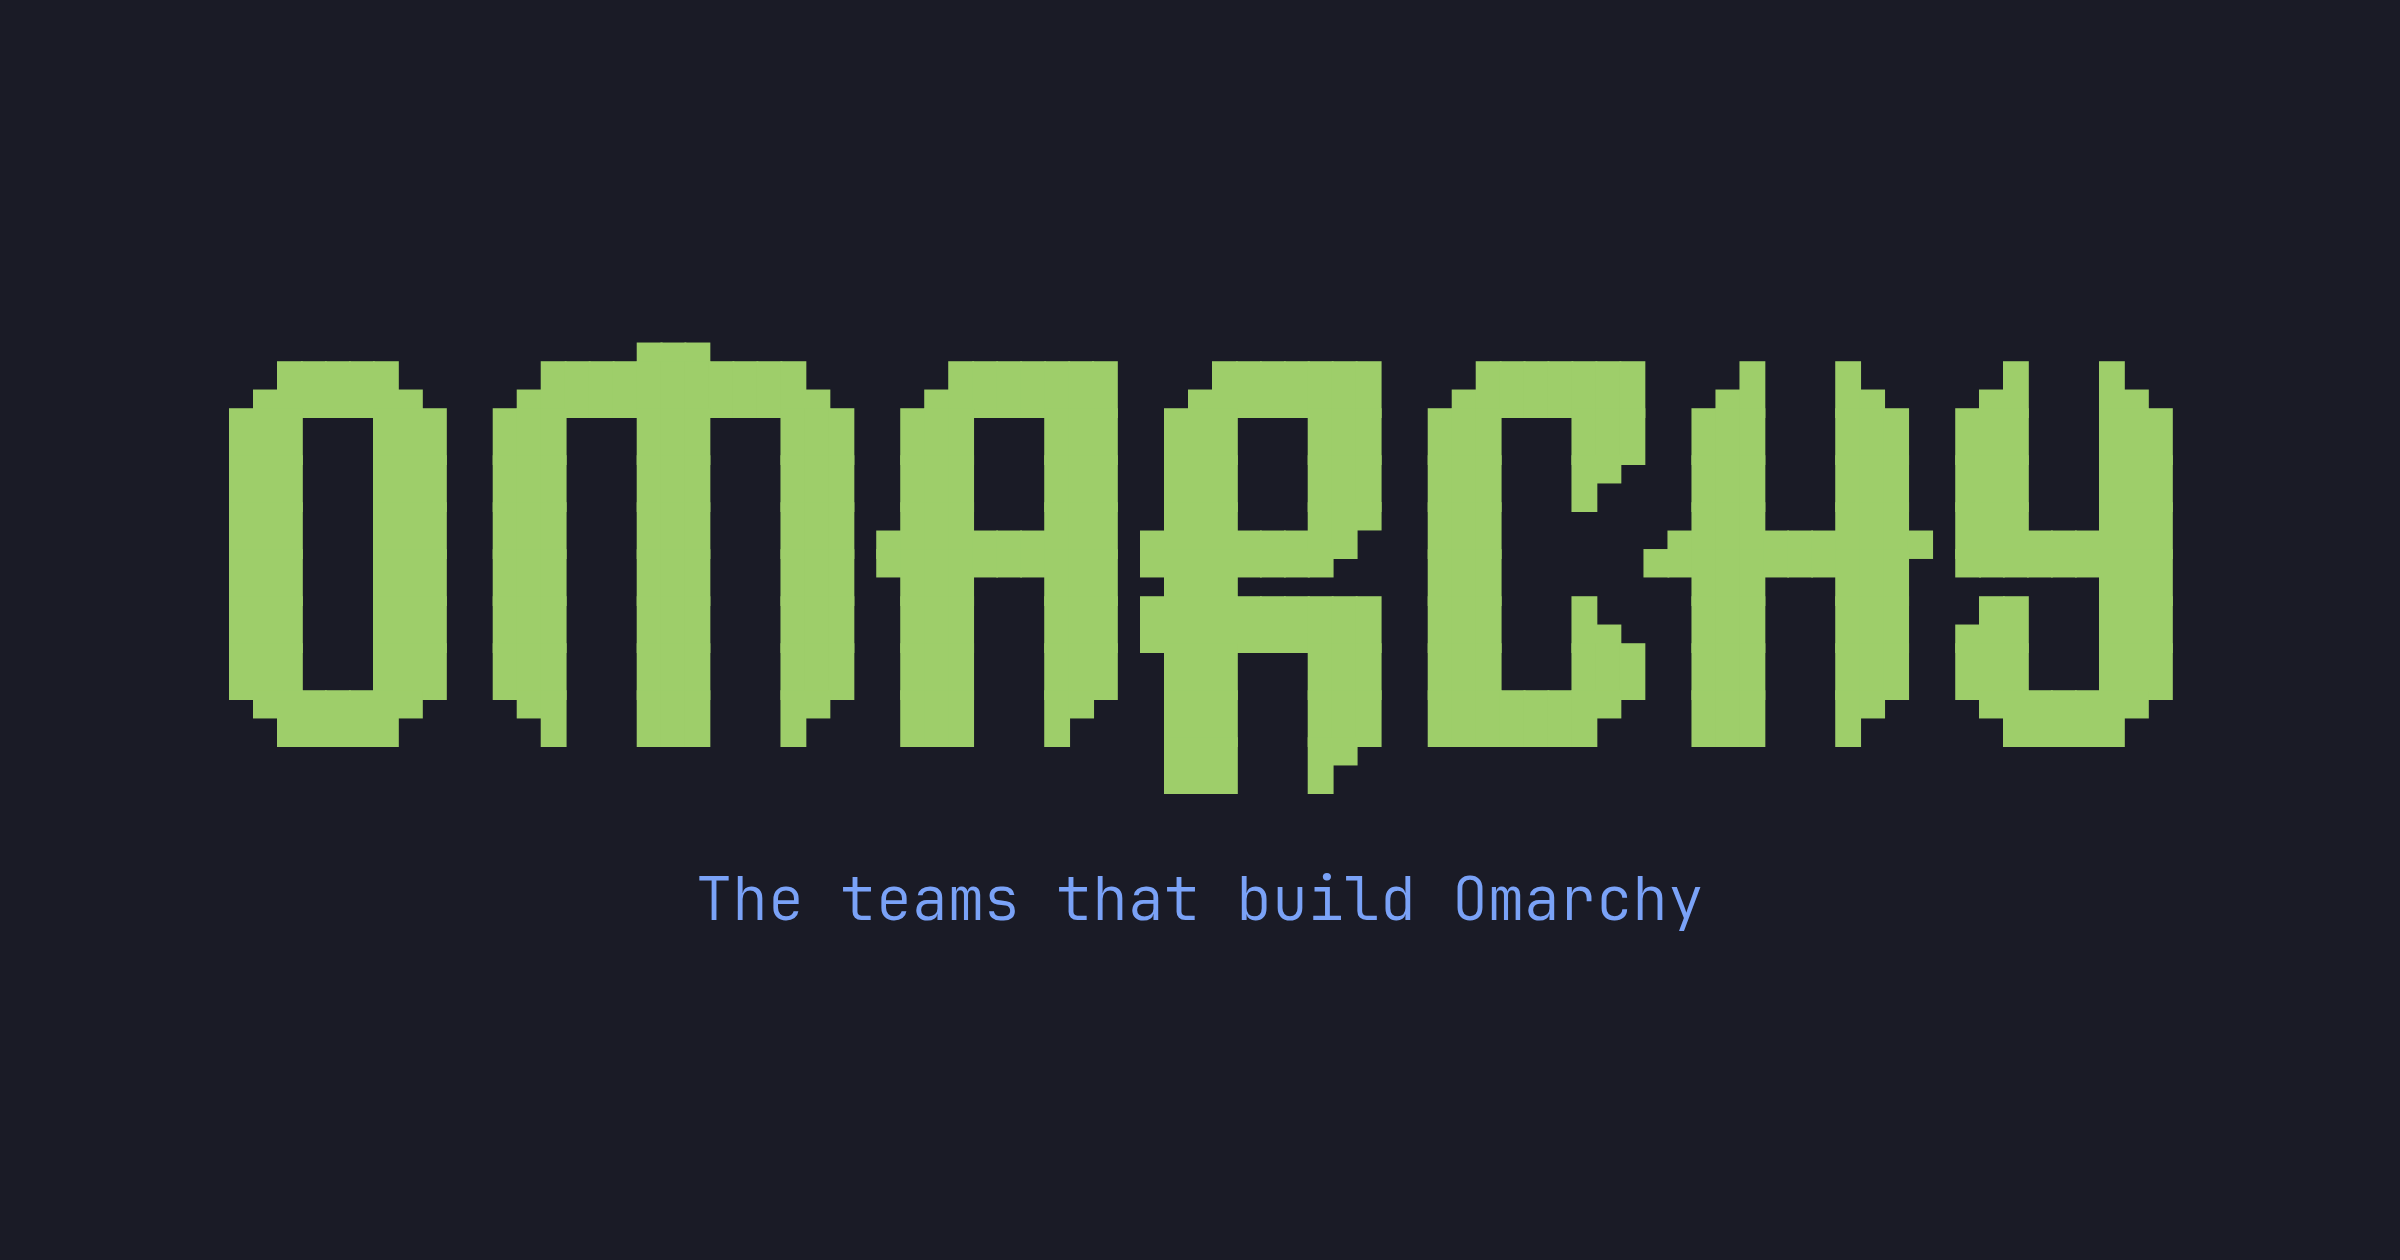
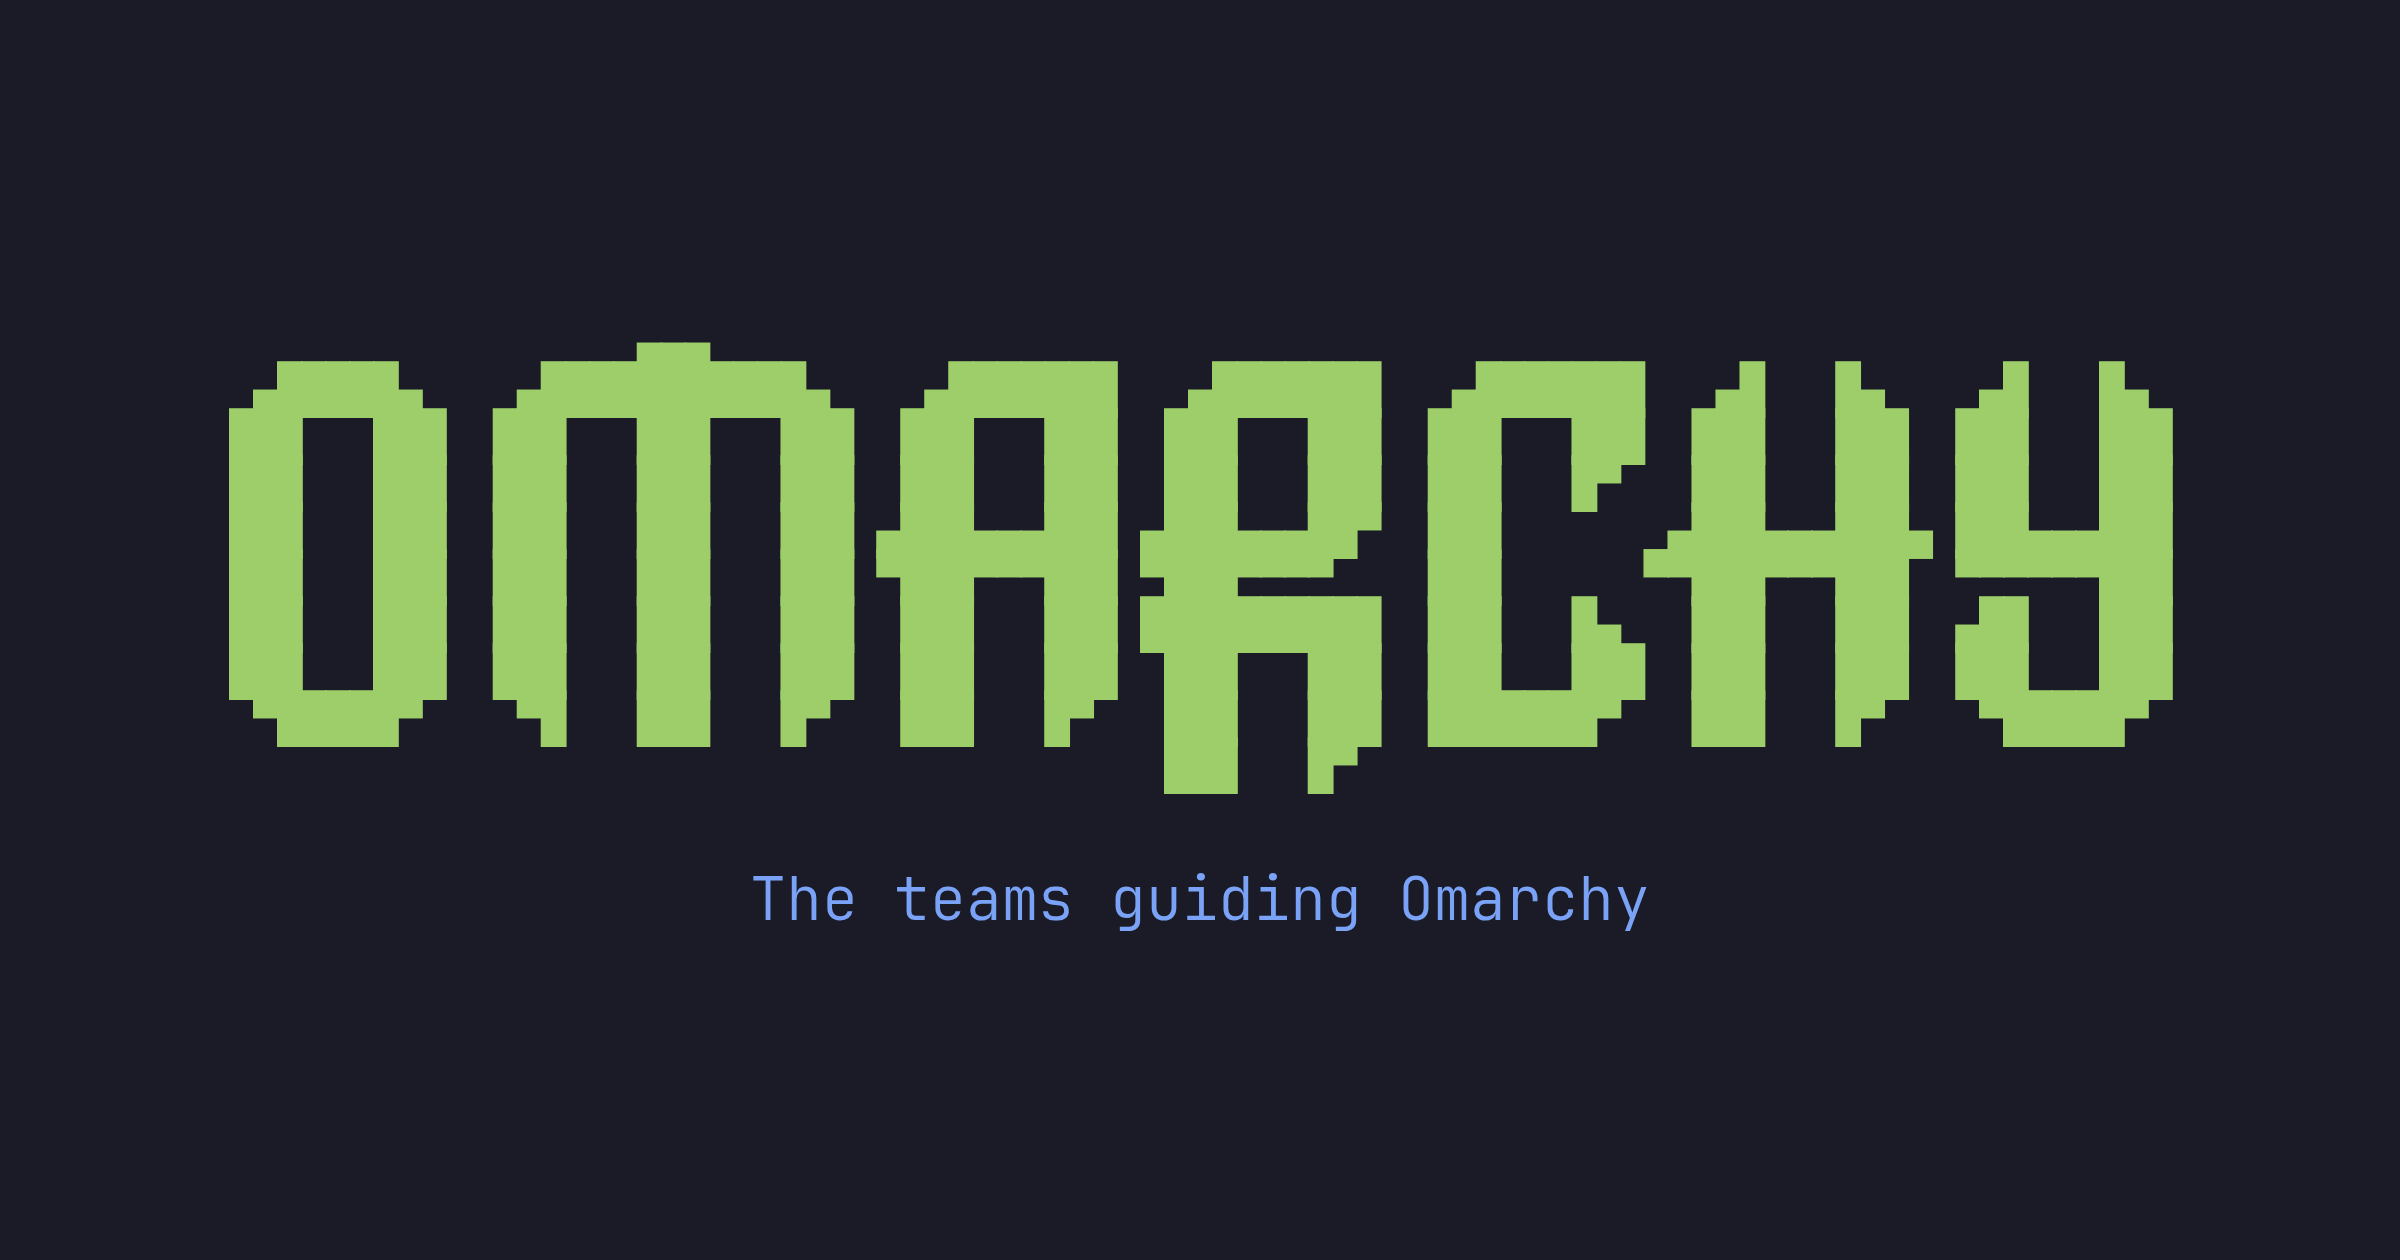
Reword the teams subtitle to "The teams guiding Omarchy"
Changed on the page heading, the three meta descriptions, and the social
card template, then the card regenerated so the image matches the page.

Changed region(s): [[0.2812, 0.681, 0.7188, 0.7429]]

diff --git a/teams/index.html b/teams/index.html
@@ -6,13 +6,13 @@
 
     <meta charset="utf-8">
     <meta name="viewport" content="initial-scale=1, width=device-width">
-    <meta name="description" content="The teams that build Omarchy.">
+    <meta name="description" content="The teams guiding Omarchy.">
 
     <link rel="canonical" href="https://omarchy.org/teams">
 
     <meta property="og:site_name" content="Omarchy">
     <meta property="og:title" content="The Omarchy Teams">
-    <meta property="og:description" content="The teams that build Omarchy.">
+    <meta property="og:description" content="The teams guiding Omarchy.">
     <meta property="og:image" content="https://omarchy.org/assets/images/teams-social.png">
     <meta property="og:image:width" content="2400">
     <meta property="og:image:height" content="1260">
@@ -21,7 +21,7 @@
     <meta property="og:type" content="website">
 
     <meta name="twitter:title" content="The Omarchy Teams">
-    <meta name="twitter:description" content="The teams that build Omarchy.">
+    <meta name="twitter:description" content="The teams guiding Omarchy.">
     <meta name="twitter:image" content="https://omarchy.org/assets/images/teams-social.png">
     <meta name="twitter:image:alt" content="Omarchy logo">
     <meta name="twitter:card" content="summary_large_image">
@@ -59,7 +59,7 @@
     </div>
 
     <header class="header">
-      <h1>The teams that build Omarchy</h1>
+      <h1>The teams guiding Omarchy</h1>
     </header>
 
     <main class="main">

diff --git a/templates/teams-social.html b/templates/teams-social.html
@@ -47,7 +47,7 @@
  ▀█████▀    ▀█   ███   █▀   ███   █▀   ███   ███  ███████▀   ███   █▀    ▀█████▀
                                        ███   █▀
 </pre>
-      <p>The teams that build Omarchy</p>
+      <p>The teams guiding Omarchy</p>
     </div>
   </body>
 </html>
